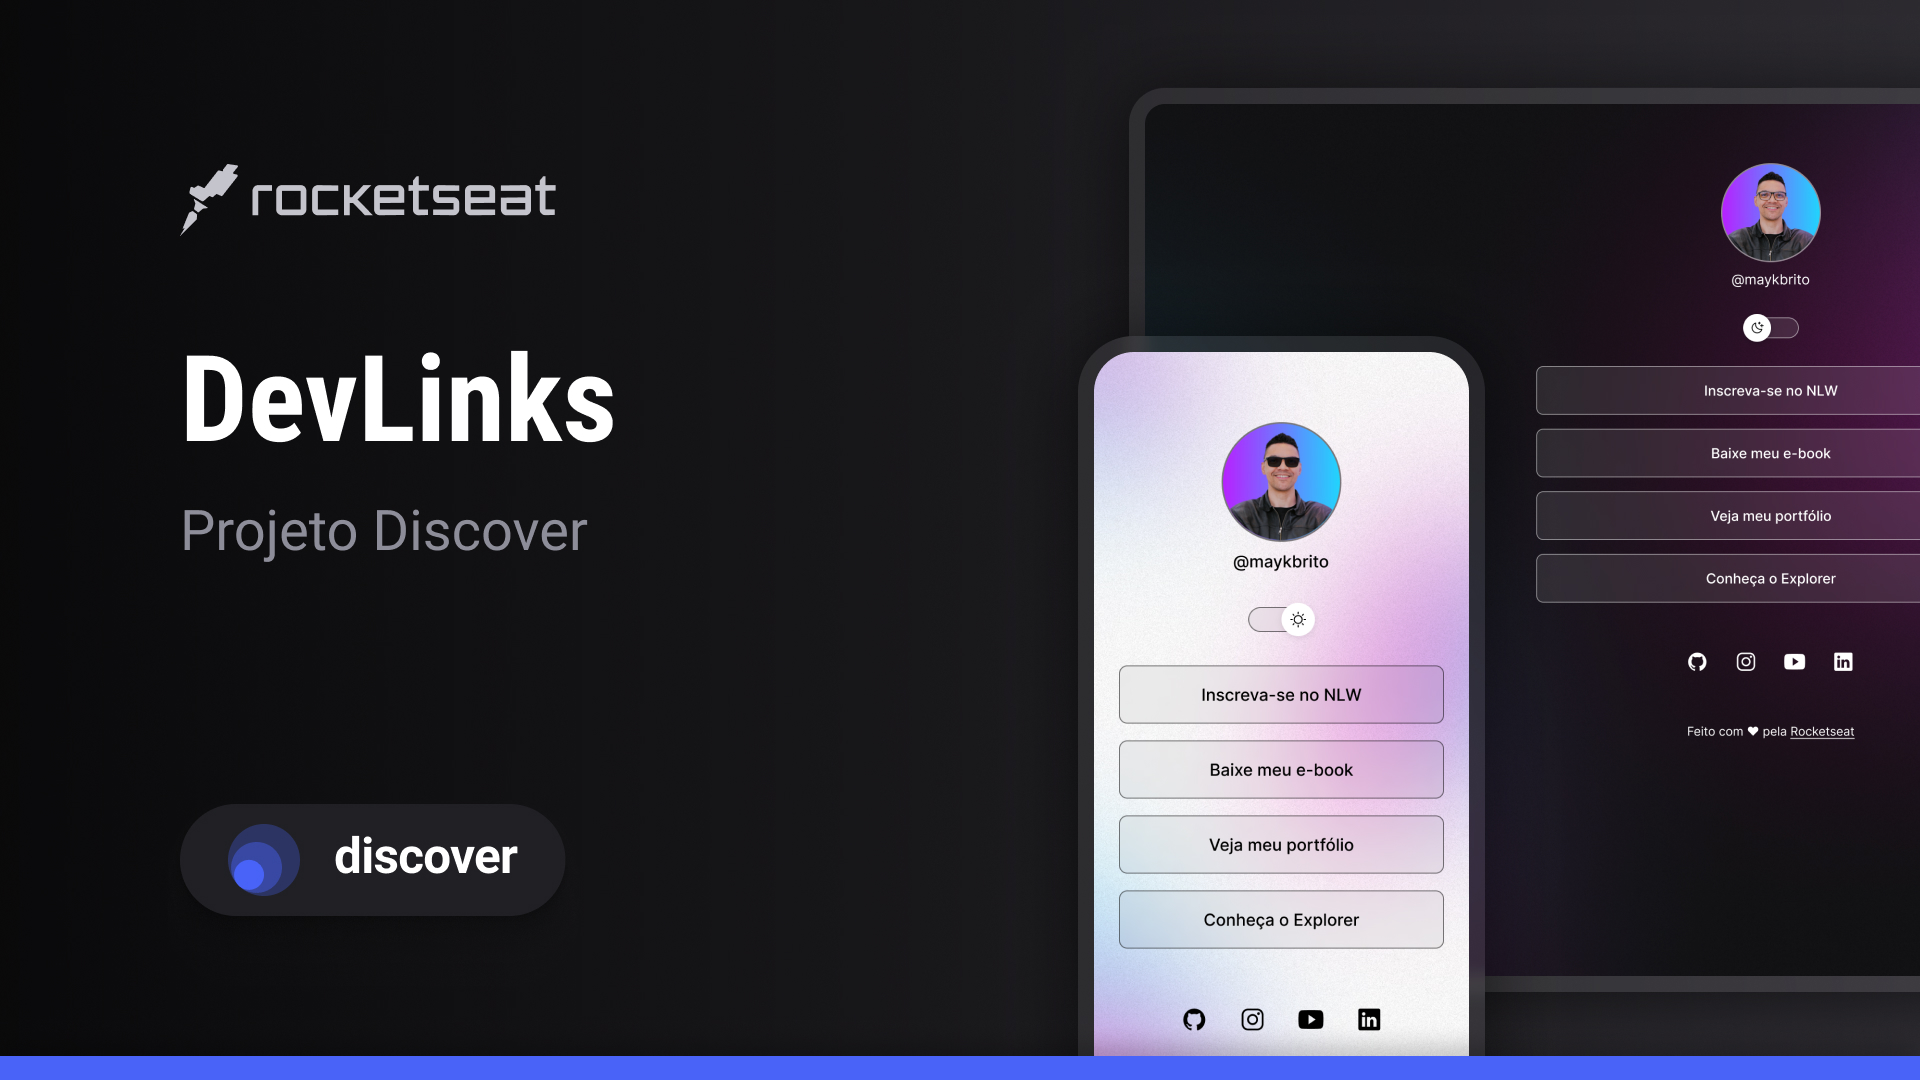
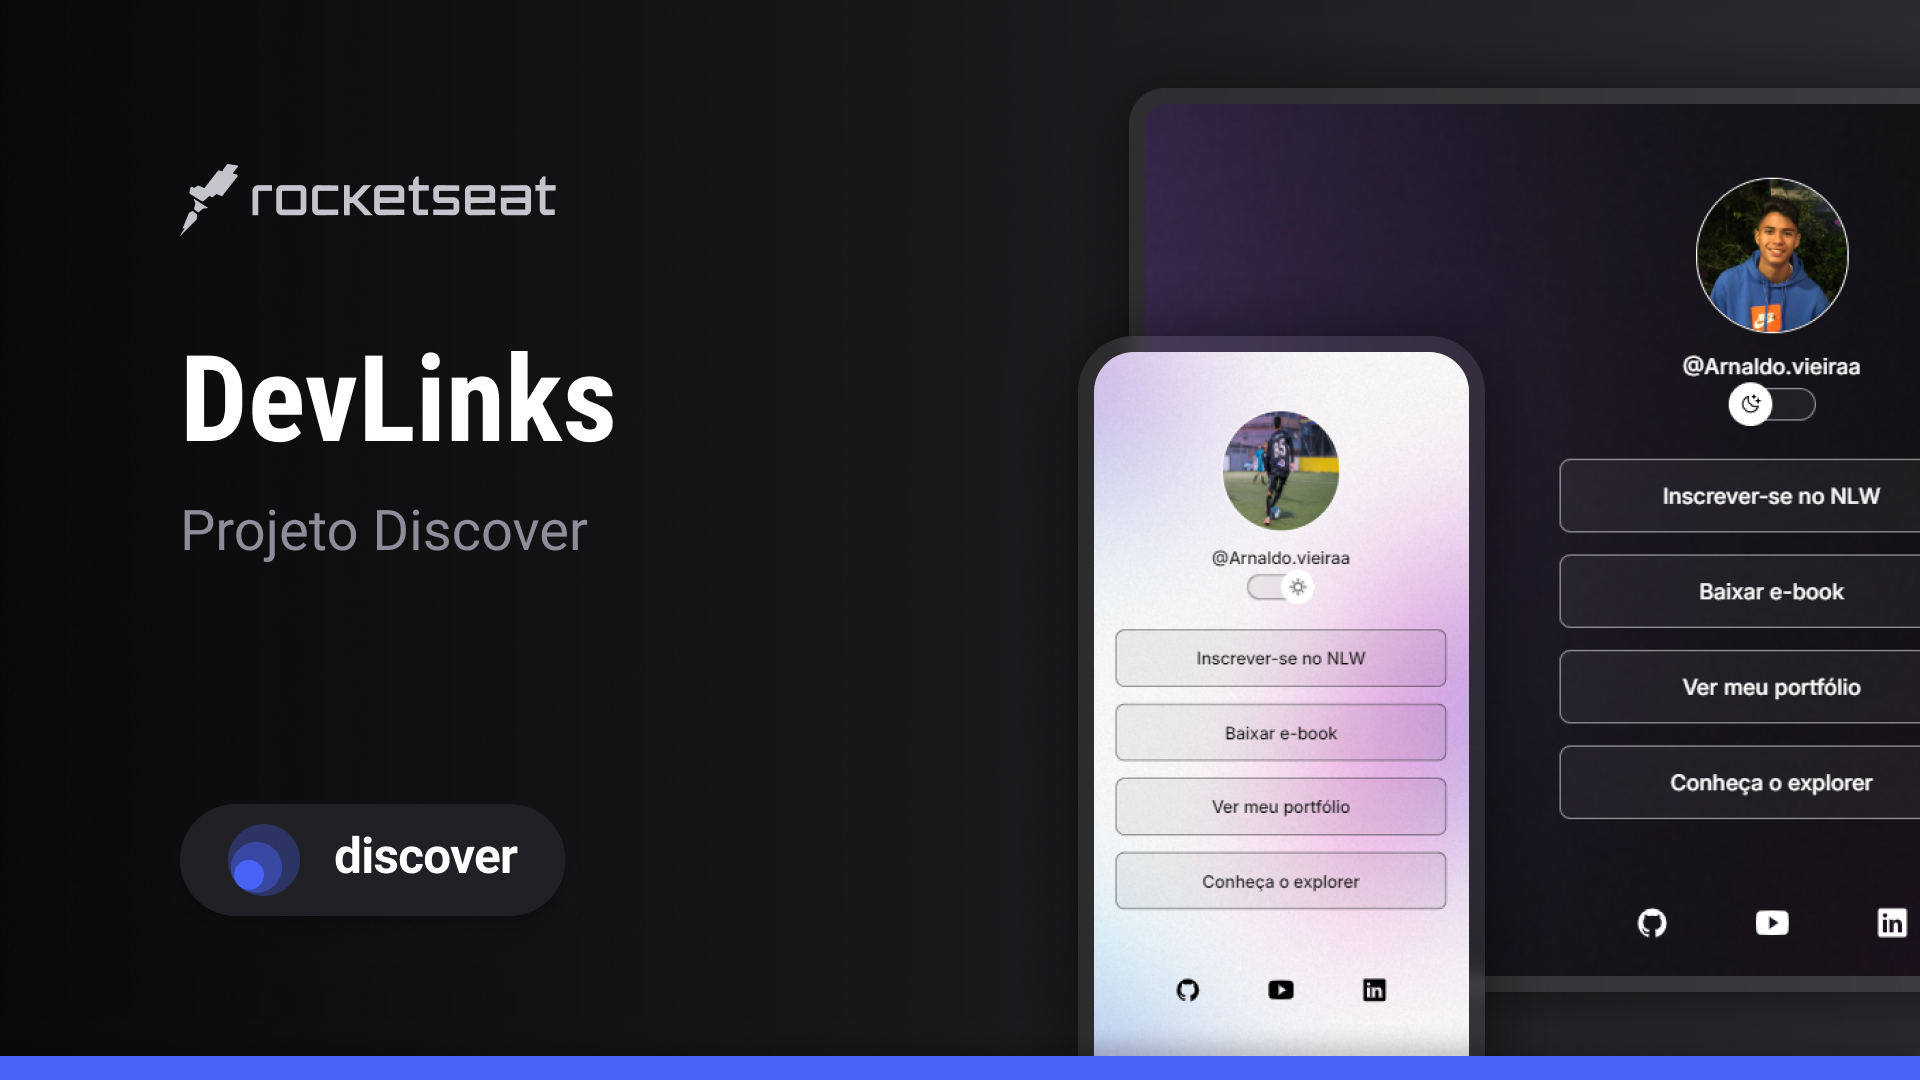
choose preview

diff --git a/style.css b/style.css
@@ -26,11 +26,14 @@
 
 body {
   background: var(--bg-url) no-repeat top center/cover;
+  height: 100vh;
   font-family: Inter, sans-serif;
   color: var(--text-color);
 }
+
 #container {
-  width: 360px;
+  width: 100%;
+  max-width: 588px;
   margin: 56px auto 0px;
   padding: 0 24px;
 }
@@ -54,7 +57,6 @@ body {
   position: relative;
   width: 64px;
   margin: 4px auto;
-  
 }
 
 /* switch */
@@ -64,17 +66,21 @@ body {
   background: white var(--switch-bg-url) no-repeat center;
   border: 0;
   border-radius: 50%;
-  
+
   position: absolute;
   top: 50%;
   left: 0;
   z-index: 1;
   transform: translateY(-50%);
+  animation: slide-back 0.2s;
 }
 
-.light #switch button{
-  right: 0;
-  left: initial;
+.light #switch button {
+ animation: slide-in 0.2s forwards;
+}
+
+#switch button:hover{
+  outline: 8px solid var(--highlight-color);
 }
 
 #switch span {
@@ -144,4 +150,34 @@ footer {
   padding: 24px 0;
   text-align: center;
   font-size: 14px;
+}
+
+/* media queries */
+@media (min-width: 700px) {
+  :root {
+    --bg-url: url(./assets/bg-desktop.jpg);
+  }
+
+  .light {
+    --bg-url: url(./assets/bg-desktop-light.jpg);
+  }
+}
+
+/* animation */
+@keyframes slide-in {
+  from {
+    left: 0;
+  }
+  to {
+    left: 50%;
+  }
+}
+
+@keyframes slide-back {
+  from {
+    left: 50%;
+  }
+  to {
+    left: 0;
+  }
 }

diff --git a/README.md b/README.md
@@ -35,7 +35,7 @@ Esse projeto foi desenvolvido com as seguintes tecnologias:
 
 O DevLinks é um agregador de links para usar como cartão de visitas online.
 
-- [Acesse o projeto finalizado, online](https://maykbrito.github.io/devlinks)
+- [Acesse o projeto finalizado, online](https://duvieiraa.github.io/Projeto-Devlinks/)
 
 - [Assistir aulas](https://lp.rocketseat.com.br/devlinks/inscricao?utm_source=github&utm_medium=descricao&utm_campaign=capture-devlinks&utm_term=organic&utm_content=descricao-github-mayk-brito)
 
